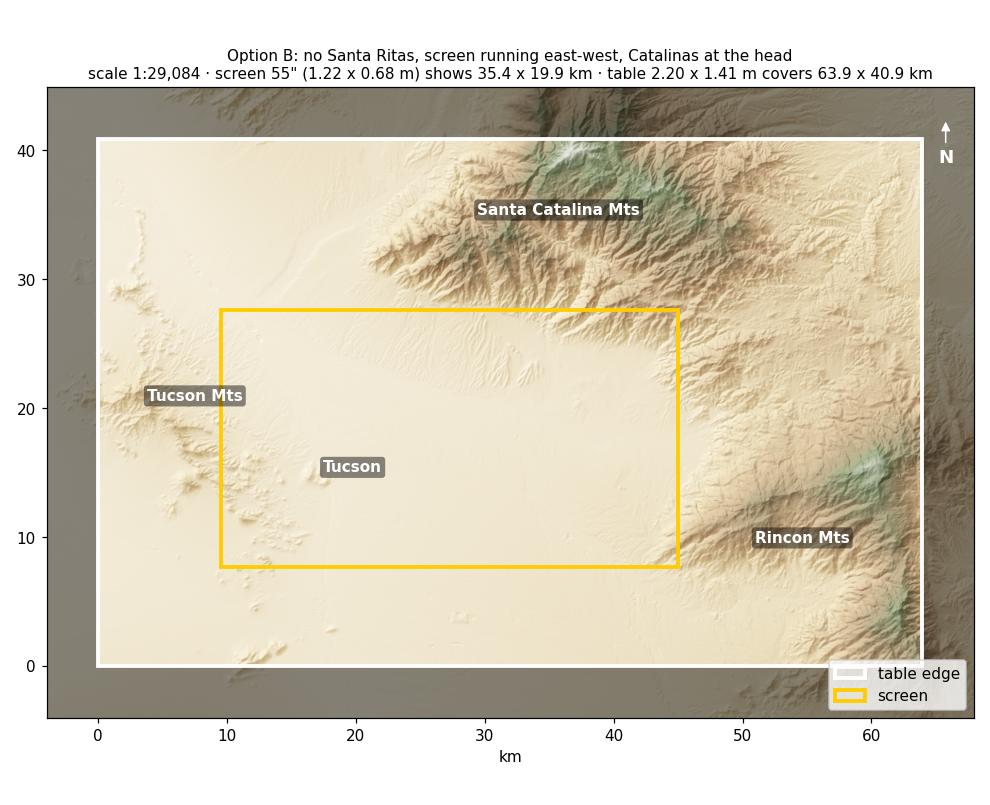
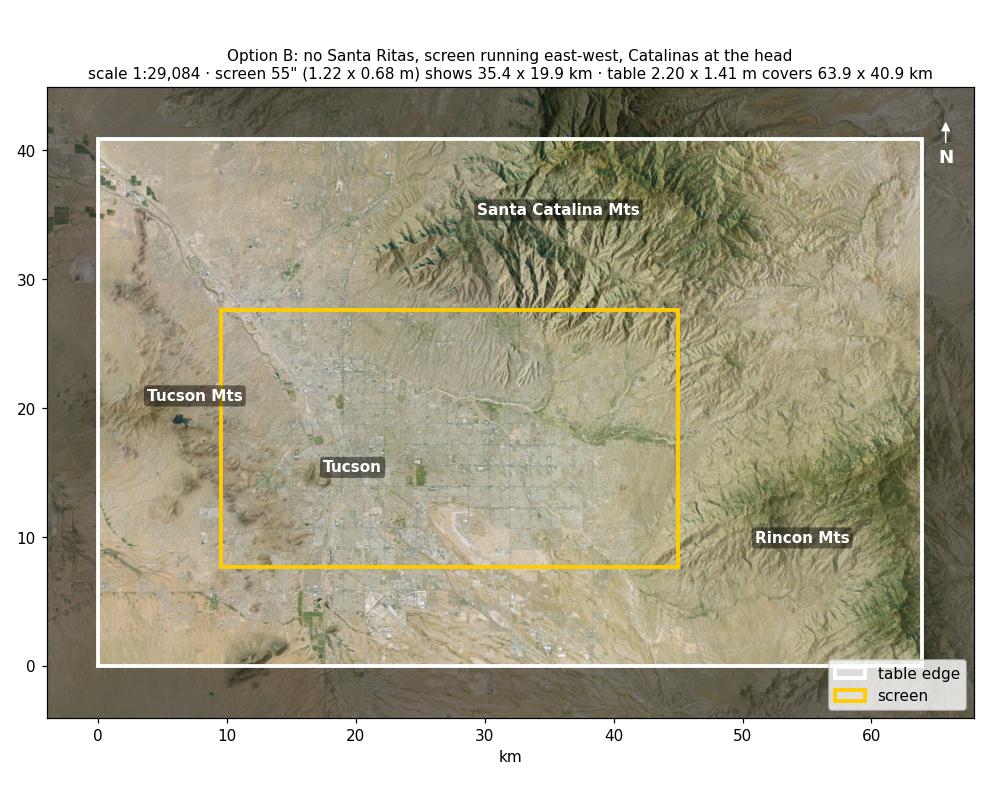
Close tickets 02 and 03: source data verified, previews on imagery

diff --git a/.scratch/display-design/issues/02-superset-source-data.md b/.scratch/display-design/issues/02-superset-source-data.md
@@ -6,11 +6,11 @@ The sandbox can't reach the download servers with curl, so this ships as a scrip
 
 **Blocked by:** None — can start immediately.
 
-**Status:** in progress (code done and tested on synthetic files; waiting on the user to run the download, which needs network)
+**Status:** done — DEM 7514 x 9967 px at 10 m and NAIP 2023 mosaic 15028 x 19932 px at 5 m, both 75.1 x 99.7 km with 0 empty pixels
 
 - [x] The superset box is defined once, in the shared config, and covers all four ranges plus a margin of at least 5 km
 - [x] One user-run script downloads all DEM tiles and imagery for the box, skipping files already present
 - [x] DEM tiles are merged into one raster and imagery into one mosaic, both reprojected to UTM 12N
-- [ ] A verification step reports coverage (no nodata holes inside the box), resolution and total size on disk (built and tested; confirm on the real data)
+- [x] A verification step reports coverage (no nodata holes inside the box), resolution and total size on disk (0 empty pixels in both products)
 - [x] Downloads land under the gitignored data directory; nothing large is committed
 - [x] Data sources and licences are recorded next to the data, like the existing data credits

diff --git a/.scratch/display-design/issues/03-layout-and-previews.md b/.scratch/display-design/issues/03-layout-and-previews.md
@@ -6,7 +6,7 @@ The first real outputs are one preview per main questionnaire option: north-sout
 
 **Blocked by:** 01 — Tracer test tile (reuses its reprojection and scaling), 02 — Source data.
 
-**Status:** in progress (done on shaded relief; re-render the previews on imagery once ticket 02's download finishes)
+**Status:** done — previews rendered on NAIP 2023 imagery
 
 - [x] Layout config: extent, screen size, orientation and screen position; scale and table footprint are derived, not entered
 - [x] Preview image shows hillshade or imagery, the screen rectangle, the table outline, range labels, scale and footprint in metres
